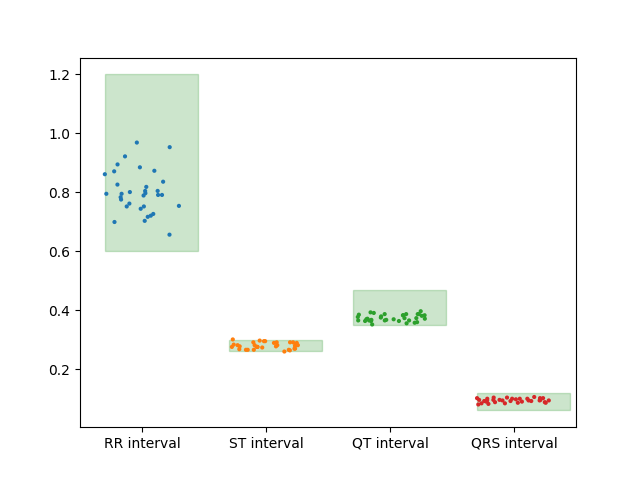
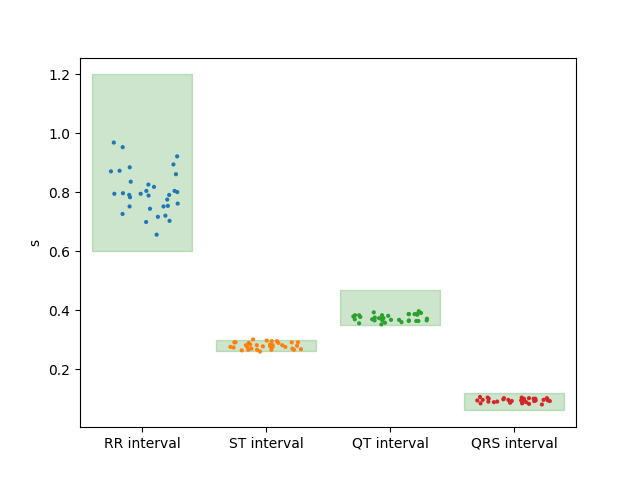
Fixed graphs

diff --git a/main.py b/main.py
@@ -126,7 +126,7 @@ def data_extractor(peaks, sample_ratem, remove_outliers=0):
 #SETTINGS
 
 #filename or index of the file in the folder
-filenum = "ecg_2024-09-11_3.csv"
+filenum = "ecg_2024-09-12_4.csv"
 
 #folder path
 filepath="ECG2"
@@ -139,10 +139,7 @@ showpoincare = False
 
 #save to folder
 save_folder = True
-
-
-
-
+save_svg = False
 
 
 
@@ -152,7 +149,7 @@ if type(filenum) is str:
     try:
         filenum = ecgfiles.index(filenum)
     except:
-        raise Exception('File not found')
+        raise Exception('File not found: '+filepath+"/"+filenum)
 
 ECG_filename = ecgfiles[filenum]
 
@@ -375,18 +372,31 @@ ax[0].plot(Q_peaks, [array[i] for i in Q_peaks], 'co', label='Q peaks')
 ax[0].plot(S_peaks, [array[i] for i in S_peaks], 'bo', label='S peaks')
 ax[0].plot(S_end_peaks, [array[i] for i in S_end_peaks], 'o', label='S end peaks', color="gray")
 ax[0].plot(Q_start_peaks, [array[i] for i in Q_start_peaks], 'o', label='Q start peaks', color="orange")
+
+ax[0].set_xticks(np.arange(0,len(array),512/2),)
+
+#25 ticks per second
+ax[0].set_xticks(np.arange(0,len(array),512/25*5),)
+#convert to seconds
+ax[0].set_xticklabels(np.arange(0,(len(array))/512*1000,1/25*5*1000),)
+ax[1].tick_params(axis='x', rotation=45)
+ax[0].set_xlabel('ms')
+ax[0].set_ylabel('microvolt')
 ax[0].legend()
 ax[0].grid()
 
 ax[1].plot(der_array)
 ax[1].plot(peaks_deriv_r, [der_array[i] for i in peaks_deriv_r], 'ro', label='R peaks')
 ax[1].plot(T_peak_deriv, [der_array[i] for i in T_peak_deriv], 'bo', label='T peaks')
+ax[1].set_xlabel('ms')
 ax[1].legend()
 ax[1].grid()
 
 if save_folder:
     plt.savefig(f'{save_folder}/' + ecgfiles[filenum].split('.')[0] + '_entire.png')
-    print('saved: '+ ecgfiles[filenum].split('.')[0] + '.png')
+    if save_svg:
+        plt.savefig(f'{save_folder}/' + ecgfiles[filenum].split('.')[0] + '_entire.svg')
+    print('saved: '+ ecgfiles[filenum].split('.')[0] + '_entire.png')
 
 if showentire:
     plt.show()
@@ -407,8 +417,11 @@ inx, iny = 0, 0
 
 fig, ax = plt.subplots(wid, hei, figsize=(50,30))
 
+fig.suptitle('Single beats, sample rate: 512Hz')
+
 for index, peak in enumerate(detected_peaks):
     
+
     ax[inx, iny].plot(array[peak[0]:peak[6]])
     ax[inx, iny].plot(0, array[peak[0]], 'o', label='Start Q peak', color="orange")
     ax[inx, iny].plot(peak[1]-peak[0], array[peak[1]], 'co', label='Q peak')
@@ -418,6 +431,13 @@ for index, peak in enumerate(detected_peaks):
     ax[inx, iny].plot(peak[5]-peak[0], array[peak[5]], 'ro', label='T peak')
     ax[inx, iny].plot(peak[6]-peak[0], array[peak[6]], 'o', label='T peak end', color="black")
     ax[inx, iny].grid()
+
+    #25 ticks per second
+    ax[inx, iny].set_xticks(np.arange(0,peak[6]-peak[0],512/25),)
+    #convert to seconds
+    ax[inx, iny].set_xticklabels(np.arange(0,(peak[6]-peak[0])/512*1000,1/25*1000),)
+    ax[inx, iny].set_xlabel('ms')
+    ax[inx, iny].set_ylabel('microvolt')
 
     iny+=1
 
@@ -431,6 +451,8 @@ if showcuts:
     plt.show()
 if save_folder:
     plt.savefig(f'{save_folder}/' + ecgfiles[filenum].split('.')[0] + '_single_peaks.png')
+    if save_svg:
+        plt.savefig(f'{save_folder}/' + ecgfiles[filenum].split('.')[0] + '_single_peaks.svg')
     print('saved: '+ ecgfiles[filenum].split('.')[0] + '.png')
 
 plt.close()
@@ -460,7 +482,7 @@ plt.gca().add_patch(Rectangle((-0.4,rr_normalrange[0]),0.8,rr_normalrange[1]-rr_
 plt.gca().add_patch(Rectangle((0.6,st_normalrange[0]),0.8,st_normalrange[1]-st_normalrange[0],linewidth=1,edgecolor='g',facecolor='green', alpha=0.2))
 plt.gca().add_patch(Rectangle((1.6,qt_normalrange[0]),0.8,qt_normalrange[1]-qt_normalrange[0],linewidth=1,edgecolor='g',facecolor='green', alpha=0.2))
 plt.gca().add_patch(Rectangle((2.6,qrs_normalrange[0]),0.8,qrs_normalrange[1]-qrs_normalrange[0],linewidth=1,edgecolor='g',facecolor='green', alpha=0.2))
-
+plt.ylabel('s')
 
 sns.stripplot(data=df, jitter=0.3, size=3)
 
@@ -469,12 +491,14 @@ if showanalysis:
 if save_folder:
 
     plt.savefig(f'{save_folder}/' + ecgfiles[filenum].split('.')[0] + '_analysis.png')
-    print('saved: '+ ecgfiles[filenum].split('.')[0] + '.png')
+    if save_svg:
+        plt.savefig(f'{save_folder}/' + ecgfiles[filenum].split('.')[0] + '_analysis.svg')
+    print('saved: '+ ecgfiles[filenum].split('.')[0] + '_analysis.png')
 
 RMSSD = np.sqrt(np.mean(np.square(np.diff(Sinus_RR))))
 
 #Poincare and variability plot
-fig, ax = plt.subplots(1,1, figsize=(10,10))
+fig, ax = plt.subplots(1,1, figsize=(7,7))
 
 ax.scatter(Sinus_RR[:-1], Sinus_RR[1:], s=15)
 ax.set_xlabel('RR(n)')
@@ -488,7 +512,9 @@ if showpoincare:
     plt.show()
 if save_folder:
     plt.savefig(f'{save_folder}/' + ecgfiles[filenum].split('.')[0] + '_poincare.png')
-    print('saved: '+ ecgfiles[filenum].split('.')[0] + '.png')
+    if save_svg:
+        plt.savefig(f'{save_folder}/' + ecgfiles[filenum].split('.')[0] + '_poincare.svg')
+    print('saved: '+ ecgfiles[filenum].split('.')[0] + '_poincare.png')
 
 #create log file
 
